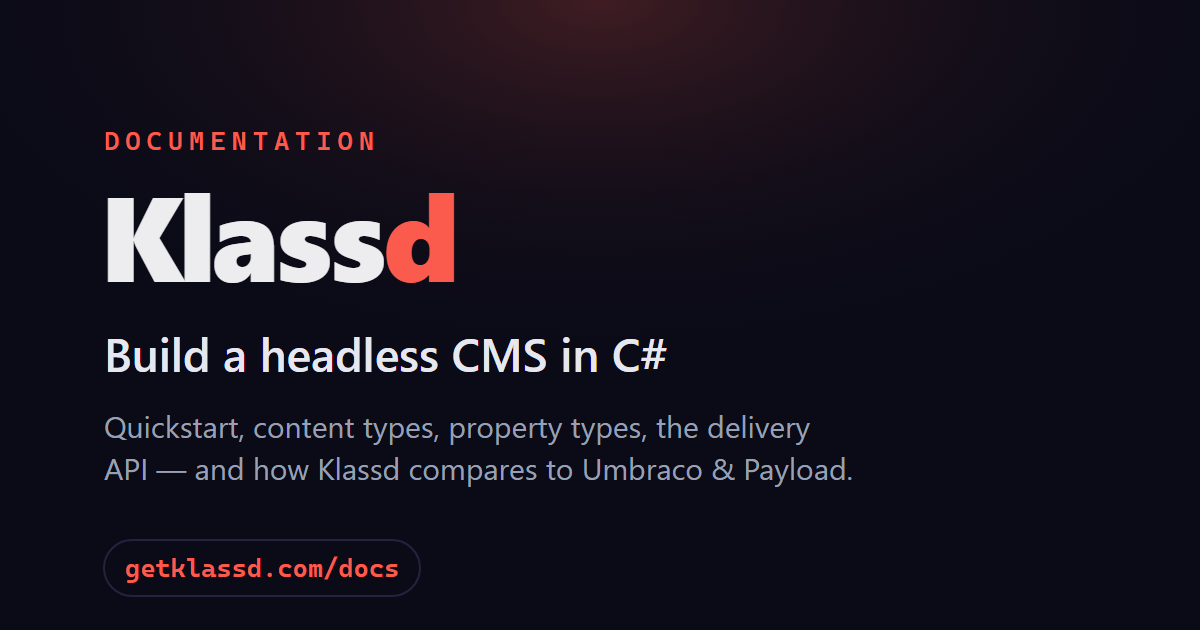
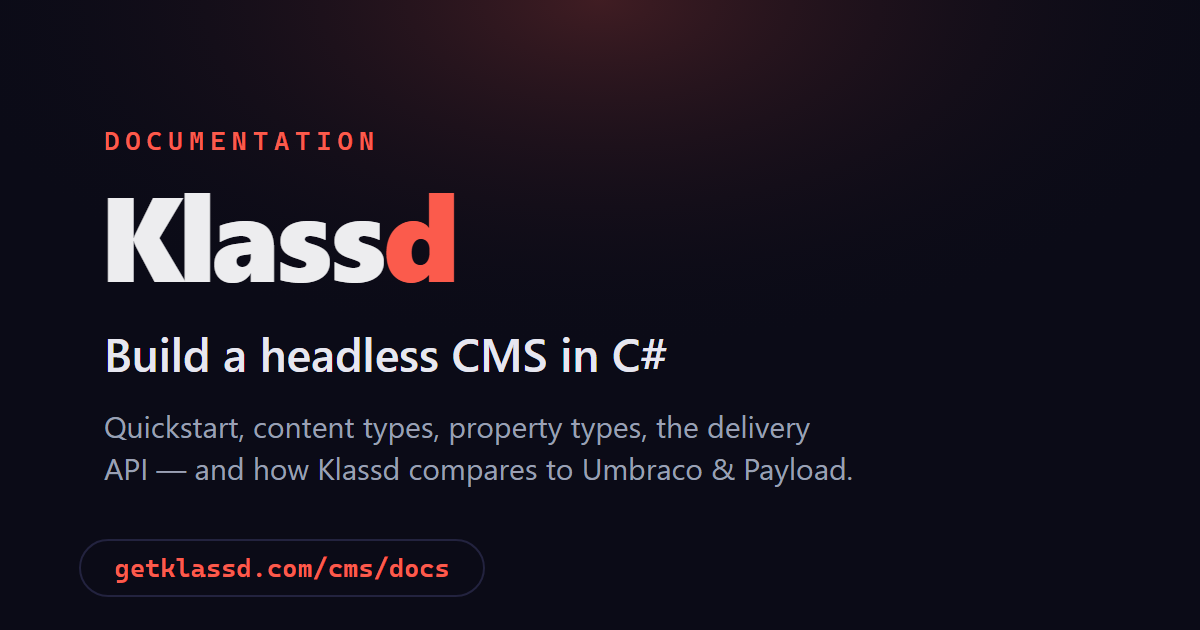
feat: add getklassd.com umbrella landing, move CMS to /cms
Make / the getklassd.com umbrella landing (CMS/Workflows/Auth product
cards) and move the CMS product page to /cms. Rename the "Docs" nav point
to "CMS" and move the CMS docs to /cms/docs (API reference to
/cms/docs/api).

Changed region(s): [[0.0617, 0.8444, 0.4008, 0.9651]]

diff --git a/src/Frontend/src/components/GetKlassd.vue b/src/Frontend/src/components/GetKlassd.vue
@@ -1,0 +1,54 @@
+<script setup lang="ts">
+// Umbrella landing for getklassd.com — introduces the whole Klassd suite (CMS, Workflows, Auth)
+// and routes to each product's own page. Static copy (not CMS-driven); prerenders into index.html.
+import Hero from './Hero.vue'
+
+interface Product { name: string; tagline: string; body: string; href: string; cta: string }
+const products: Product[] = [
+  {
+    name: 'Klassd CMS',
+    tagline: 'Headless CMS for .NET',
+    body: 'Define your content model as C# classes and deliver it to any frontend over a clean JSON API. Drafts, versioning, roles and full-text search included.',
+    href: '/cms',
+    cta: 'Explore the CMS →',
+  },
+  {
+    name: 'Klassd.Workflows',
+    tagline: 'Background jobs & DAGs',
+    body: 'Write jobs as C# classes and run each as its own Kubernetes pod — or a local process in dev. Schedule with cron, compose into DAG workflows, watch every run live.',
+    href: '/workflows',
+    cta: 'Explore Workflows →',
+  },
+  {
+    name: 'Klassd.Auth',
+    tagline: 'Self-hostable auth',
+    body: 'A code-first authentication core: email/password, rotating sessions, social login & SSO, MFA, email verification and per-user metadata. One call ships the whole HTTP API.',
+    href: '/auth',
+    cta: 'Explore Auth →',
+  },
+]
+</script>
+
+<template>
+  <Hero
+    badge="Open-source .NET building blocks"
+    title="Code-first building blocks for .NET"
+    subtitle="getklassd.com is home to Klassd — a family of code-first, self-hostable libraries for .NET. A headless CMS, a background-job &amp; workflow engine, and an authentication core. Model everything as C# classes; ship it anywhere."
+    cta-text="Browse the GitHub org"
+    cta-url="https://github.com/getklassd"
+  />
+
+  <section class="products">
+    <a v-for="(p, i) in products" :key="i" class="product-card" :href="p.href">
+      <span class="product-tagline">{{ p.tagline }}</span>
+      <h3>{{ p.name }}</h3>
+      <p>{{ p.body }}</p>
+      <span class="product-cta">{{ p.cta }}</span>
+    </a>
+  </section>
+
+  <section class="compare-teaser">
+    <p>All three are MIT-licensed, in beta, and published on NuGet.</p>
+    <a class="cta" href="https://github.com/getklassd">View on GitHub →</a>
+  </section>
+</template>

diff --git a/src/Frontend/src/style.css b/src/Frontend/src/style.css
@@ -95,7 +95,46 @@ main { min-height: 100vh; }
 .feature h3 { margin: 0 0 10px; font-size: 18px; }
 .feature p { margin: 0; color: var(--muted); line-height: 1.6; }
 
-/* Comparison teaser — a quiet band linking to the full table in /docs */
+/* Product grid — the getklassd.com umbrella landing's CMS / Workflows / Auth cards (links) */
+.products {
+  max-width: 1200px;
+  margin: 0 auto;
+  padding: 24px 24px 96px;
+  display: grid;
+  grid-template-columns: repeat(3, minmax(0, 1fr));
+  gap: 20px;
+}
+@media (max-width: 920px) {
+  .products { grid-template-columns: 1fr; }
+}
+.product-card {
+  display: flex;
+  flex-direction: column;
+  background: var(--panel);
+  border: 1px solid var(--border);
+  border-radius: 14px;
+  padding: 28px;
+  text-decoration: none;
+  color: var(--text);
+  transition: transform 0.12s ease, border-color 0.12s ease, box-shadow 0.12s ease;
+}
+.product-card:hover {
+  transform: translateY(-2px);
+  border-color: var(--accent);
+  box-shadow: 0 12px 34px rgba(var(--accent-rgb), 0.18);
+}
+.product-tagline {
+  font-size: 12px;
+  letter-spacing: 0.06em;
+  text-transform: uppercase;
+  color: var(--accent);
+  margin-bottom: 12px;
+}
+.product-card h3 { margin: 0 0 12px; font-size: 22px; letter-spacing: -0.01em; }
+.product-card p { margin: 0 0 20px; color: var(--muted); line-height: 1.6; }
+.product-cta { margin-top: auto; font-weight: 600; color: var(--accent); }
+
+/* Comparison teaser — a quiet band linking to the full table in /cms/docs */
 .compare-teaser {
   max-width: 1200px;
   margin: 0 auto;
@@ -243,7 +282,7 @@ main { min-height: 100vh; }
 .footer-credit { display: block; margin-top: 6px; color: var(--muted); }
 .footer-heart { color: var(--accent); }
 
-/* ── Docs (/docs) ─────────────────────────────────────────────────────────── */
+/* ── Docs (/cms/docs) ─────────────────────────────────────────────────────── */
 .docs {
   max-width: 1200px;
   margin: 0 auto;

diff --git a/src/Frontend/prerender.ts b/src/Frontend/prerender.ts
@@ -34,15 +34,21 @@ async function bake(url: string): Promise<{ markup: string; hasPage: boolean }> 
 }
 
 // Home → index.html (+ 404.html SPA fallback for unknown paths / refreshes).
+// The home view is the getklassd.com umbrella landing (static, no CMS content).
 const home = await bake('/')
 const out = resolve(clientDir, 'index.html')
 writeFileSync(out, home.markup)
 copyFileSync(out, resolve(clientDir, '404.html'))
 
-// Docs → /docs/index.html (static, no CMS content required).
-const docs = await bake('/docs')
-mkdirSync(resolve(clientDir, 'docs'), { recursive: true })
-writeFileSync(resolve(clientDir, 'docs/index.html'), docs.markup)
+// CMS landing → /cms/index.html (CMS-driven content, baked from CMS_BASE at build time).
+const cms = await bake('/cms')
+mkdirSync(resolve(clientDir, 'cms'), { recursive: true })
+writeFileSync(resolve(clientDir, 'cms/index.html'), cms.markup)
+
+// CMS docs → /cms/docs/index.html (static, no CMS content required).
+const docs = await bake('/cms/docs')
+mkdirSync(resolve(clientDir, 'cms/docs'), { recursive: true })
+writeFileSync(resolve(clientDir, 'cms/docs/index.html'), docs.markup)
 
 // Workflows landing → /workflows/index.html (static, no CMS content required).
 const workflows = await bake('/workflows')
@@ -64,8 +70,8 @@ const authDocs = await bake('/auth/docs')
 mkdirSync(resolve(clientDir, 'auth/docs'), { recursive: true })
 writeFileSync(resolve(clientDir, 'auth/docs/index.html'), authDocs.markup)
 
-if (!home.hasPage) {
-  console.error('⚠ Prerendered with NO page content — is the CMS reachable at CMS_BASE?')
+if (!cms.hasPage) {
+  console.error('⚠ Prerendered /cms with NO page content — is the CMS reachable at CMS_BASE?')
   process.exit(1)
 }
-console.log('✓ Prerendered index.html (+ 404.html), docs/, workflows/, workflows/docs/, auth/ and auth/docs/ with baked-in content')
+console.log('✓ Prerendered index.html (+ 404.html), cms/, cms/docs/, workflows/, workflows/docs/, auth/ and auth/docs/ with baked-in content')

diff --git a/src/Frontend/src/App.vue b/src/Frontend/src/App.vue
@@ -6,6 +6,7 @@ import Footer from './components/Footer.vue'
 import Hero from './components/Hero.vue'
 import FeatureCard from './components/FeatureCard.vue'
 import CodeShowcase from './components/CodeShowcase.vue'
+import GetKlassd from './components/GetKlassd.vue'
 import Docs from './components/Docs.vue'
 import Workflows from './components/Workflows.vue'
 import WorkflowsDocs from './components/WorkflowsDocs.vue'
@@ -15,7 +16,9 @@ import AuthDocs from './components/AuthDocs.vue'
 // Provided by app.ts — fetched during SSR, reused on hydration (no client refetch).
 const page = inject<Page | null>('initialPage', null)
 const route = inject<string>('route', '/')
-const isDocs = computed(() => route === '/docs')
+const isHome = computed(() => route === '/')
+const isCms = computed(() => route === '/cms')
+const isDocs = computed(() => route === '/cms/docs')
 const isWorkflows = computed(() => route === '/workflows')
 const isWorkflowsDocs = computed(() => route === '/workflows/docs')
 const isAuth = computed(() => route === '/auth')
@@ -30,7 +33,9 @@ function features(p: Page): Block[] {
   <div class="site">
     <Header />
     <main>
-      <Docs v-if="isDocs" />
+      <GetKlassd v-if="isHome" />
+
+      <Docs v-else-if="isDocs" />
 
       <WorkflowsDocs v-else-if="isWorkflowsDocs" />
 
@@ -40,7 +45,7 @@ function features(p: Page): Block[] {
 
       <Auth v-else-if="isAuth" />
 
-      <template v-else-if="page">
+      <template v-else-if="isCms && page">
         <Hero
           :title="page.data.heroTitle"
           :subtitle="page.data.heroSubtitle"
@@ -66,7 +71,7 @@ function features(p: Page): Block[] {
 
         <section class="compare-teaser">
           <p>Evaluating headless CMSs? See how Klassd's code-first approach compares to Umbraco and Payload.</p>
-          <a class="cta" href="/docs#comparison">Compare →</a>
+          <a class="cta" href="/cms/docs#comparison">Compare →</a>
         </section>
       </template>
 

diff --git a/src/Frontend/src/components/Docs.vue b/src/Frontend/src/components/Docs.vue
@@ -1,6 +1,6 @@
 <script setup lang="ts">
 // Static documentation view. Content lives here (not in the CMS) so the docs are versioned with
-// the framework and render with zero CMS dependency — they prerender into /docs/index.html.
+// the framework and render with zero CMS dependency — they prerender into /cms/docs/index.html.
 
 interface FieldType {
   alias: string
@@ -152,7 +152,7 @@ const comparison: CompareRow[] = [
       <nav class="docs-toc" aria-label="Docs sections">
         <p class="docs-toc-title">Documentation</p>
         <a v-for="s in sections" :key="s.id" :href="`#${s.id}`" class="docs-toc-link">{{ s.label }}</a>
-        <a href="/docs/api/" class="docs-toc-link docs-toc-api">API reference →</a>
+        <a href="/cms/docs/api/" class="docs-toc-link docs-toc-api">API reference →</a>
       </nav>
     </aside>
 
@@ -167,7 +167,7 @@ const comparison: CompareRow[] = [
         </p>
         <p class="docs-lede-meta">
           Prefer type-by-type detail? Browse the
-          <a href="/docs/api/">generated API reference →</a>
+          <a href="/cms/docs/api/">generated API reference →</a>
         </p>
       </header>
 
@@ -322,7 +322,7 @@ const comparison: CompareRow[] = [
           time-travels delivery when enabled. A <code>/graphql</code> endpoint is available via the opt-in GraphQL package.
         </p>
         <p class="docs-cta-row">
-          <a class="cta" href="/docs/api/">API reference</a>
+          <a class="cta" href="/cms/docs/api/">API reference</a>
           <a class="docs-ghost" href="https://github.com/getklassd/Klassd">View on GitHub</a>
           <a class="docs-ghost" href="https://www.nuget.org/profiles/getklassd">All NuGet packages</a>
         </p>

diff --git a/src/Frontend/src/entry-server.ts b/src/Frontend/src/entry-server.ts
@@ -6,7 +6,8 @@ import { renderHead } from './seo'
 /** Map a request URL to a known view. Everything that isn't a known static view renders home. */
 function resolveRoute(url: string): string {
   const path = (url.split('?')[0] || '/').replace(/\/+$/, '') || '/'
-  if (path === '/docs') return '/docs'
+  if (path === '/cms/docs') return '/cms/docs'
+  if (path === '/cms') return '/cms'
   if (path === '/workflows/docs') return '/workflows/docs'
   if (path === '/workflows') return '/workflows'
   if (path === '/auth/docs') return '/auth/docs'
@@ -15,13 +16,13 @@ function resolveRoute(url: string): string {
 }
 
 // Server entry: resolve the route, fetch the CMS-managed chrome (header/footer) in parallel, and —
-// for the home view only — the page content. Render to an HTML string and return it with the state
-// (serialized for hydration) and the per-route <head> markup. Each fetcher swallows its own errors
-// and returns null so the CMS being unreachable can't fail SSR.
+// for the CMS landing view only — the page content. Render to an HTML string and return it with the
+// state (serialized for hydration) and the per-route <head> markup. Each fetcher swallows its own
+// errors and returns null so the CMS being unreachable can't fail SSR.
 export async function render(url: string): Promise<{ html: string; head: string; state: AppState }> {
   const route = resolveRoute(url)
   const [page, header, footer] = await Promise.all([
-    route === '/' ? fetchHome('en').catch(() => null) : Promise.resolve(null),
+    route === '/cms' ? fetchHome('en').catch(() => null) : Promise.resolve(null),
     getSiteHeader('en'),
     getSiteFooter('en'),
   ])

diff --git a/src/Frontend/src/seo.ts b/src/Frontend/src/seo.ts
@@ -18,12 +18,18 @@ export interface Seo {
 const ROUTES: Record<string, Seo> = {
   '/': {
     path: '/',
+    title: 'getklassd.com — code-first building blocks for .NET',
+    description:
+      'getklassd.com is home to Klassd — a family of code-first, self-hostable libraries for .NET: a headless CMS, a background-job & workflow engine, and an authentication core.',
+  },
+  '/cms': {
+    path: '/cms',
     title: 'Klassd — code-first headless CMS for .NET',
     description:
       'Klassd is a code-first, headless CMS for .NET. Define your content model as C# classes and deliver it to any frontend over a clean JSON API.',
   },
-  '/docs': {
-    path: '/docs',
+  '/cms/docs': {
+    path: '/cms/docs',
     title: 'Docs — Klassd, the code-first headless CMS for .NET',
     description:
       'Build a headless CMS in C#: quickstart, content types and property types, editorial features, the delivery API, and how Klassd compares to Umbraco and Payload.',

diff --git a/src/Frontend/src/app.ts b/src/Frontend/src/app.ts
@@ -4,7 +4,7 @@ import type { Page, SiteHeaderData, SiteFooterData } from './api'
 import './style.css'
 
 // The full SSR state: page content plus the CMS-managed site chrome (header/footer).
-// `route` is the resolved view (e.g. '/' or '/docs') — baked in during prerender so the
+// `route` is the resolved view (e.g. '/' or '/cms/docs') — baked in during prerender so the
 // hydrated client renders the same view the server did (no client router needed).
 export interface AppState {
   route: string

diff --git a/docfx/templates/klassd/public/main.css b/docfx/templates/klassd/public/main.css
@@ -1,6 +1,6 @@
 /* Klassd brand tint over the DocFX "modern" template.
    The modern template is Bootstrap-based and auto-handles light/dark; we only nudge the
-   accent to Klassd coral so the API reference reads as the same product as /docs. */
+   accent to Klassd coral so the API reference reads as the same product as /cms/docs. */
 :root,
 :root[data-bs-theme="light"],
 :root[data-bs-theme="dark"] {

diff --git a/src/Backend/StarterContent.cs b/src/Backend/StarterContent.cs
@@ -82,8 +82,8 @@ public static class StarterContent
             new Dictionary<string, string>
             {
                 ["logoText"] = "Klassd",
-                // Primary nav: on-site docs, the Workflows + Auth package pages, + a link out to the GitHub org.
-                ["navLinks"] = """[{"label":"Docs","url":"/docs"},{"label":"Workflows","url":"/workflows"},{"label":"Auth","url":"/auth"},{"label":"GitHub","url":"https://github.com/getklassd"}]""",
+                // Primary nav: the CMS product page, the Workflows + Auth package pages, + a link out to the GitHub org.
+                ["navLinks"] = """[{"label":"CMS","url":"/cms"},{"label":"Workflows","url":"/workflows"},{"label":"Auth","url":"/auth"},{"label":"GitHub","url":"https://github.com/getklassd"}]""",
                 ["ctaText"] = "GitHub",
                 ["ctaUrl"] = "https://github.com/getklassd",
             },
@@ -102,7 +102,7 @@ public static class StarterContent
                     new BlockData(nameof(LinkListBlock), new()
                     {
                         ["heading"] = "Project",
-                        ["links"] = """[{"label":"GitHub","url":"https://github.com/getklassd"},{"label":"Docs","url":"/docs"},{"label":"Workflows","url":"/workflows"},{"label":"Auth","url":"/auth"},{"label":"NuGet","url":"https://www.nuget.org/profiles/getklassd"}]""",
+                        ["links"] = """[{"label":"GitHub","url":"https://github.com/getklassd"},{"label":"CMS","url":"/cms"},{"label":"Workflows","url":"/workflows"},{"label":"Auth","url":"/auth"},{"label":"NuGet","url":"https://www.nuget.org/profiles/getklassd"}]""",
                     }),
                 ],
             });

diff --git a/docfx/README.md b/docfx/README.md
@@ -1,8 +1,8 @@
 # API reference (DocFX)
 
-Generates the **type-by-type API reference** at `/docs/api` from the Klassd source XML
+Generates the **type-by-type API reference** at `/cms/docs/api` from the Klassd source XML
 documentation comments. This is the API half of the hybrid docs setup — the curated guides
-and quickstart live in the Vue app (`src/Frontend/src/components/Docs.vue`, served at `/docs`).
+and quickstart live in the Vue app (`src/Frontend/src/components/Docs.vue`, served at `/cms/docs`).
 
 ## Build
 
@@ -12,7 +12,7 @@ dotnet tool restore                 # installs DocFX (pinned in .config/dotnet-t
 dotnet docfx docfx/docfx.json
 ```
 
-Output lands in `src/Frontend/dist/client/docs/api/`, so it ships inside the GitHub Pages
+Output lands in `src/Frontend/dist/client/cms/docs/api/`, so it ships inside the GitHub Pages
 deploy artifact alongside the prerendered Vue site.
 
 > **Ordering matters.** `vite build` empties `dist/client`, so DocFX must run **after**
@@ -29,5 +29,5 @@ the submodule is pinned to — bump the submodule to surface newly added API.
 ## Theme
 
 Uses the built-in `default` + `modern` templates plus `templates/klassd` (a thin CSS overlay
-in `public/main.css`) to tint the accent to Klassd coral and link the brand back to `/docs`.
+in `public/main.css`) to tint the accent to Klassd coral and link the brand back to `/cms/docs`.
 Generated metadata (`api/`) and any local `_site/` are git-ignored.

diff --git a/docfx/index.md b/docfx/index.md
@@ -4,7 +4,7 @@ Auto-generated reference for the public Klassd API, extracted from the source XM
 documentation comments.
 
 > [!TIP]
-> Looking for **guides and a quickstart**? See the [main documentation](/docs). This section
+> Looking for **guides and a quickstart**? See the [main documentation](/cms/docs). This section
 > is the type-by-type API reference.
 
 ## Where to start
